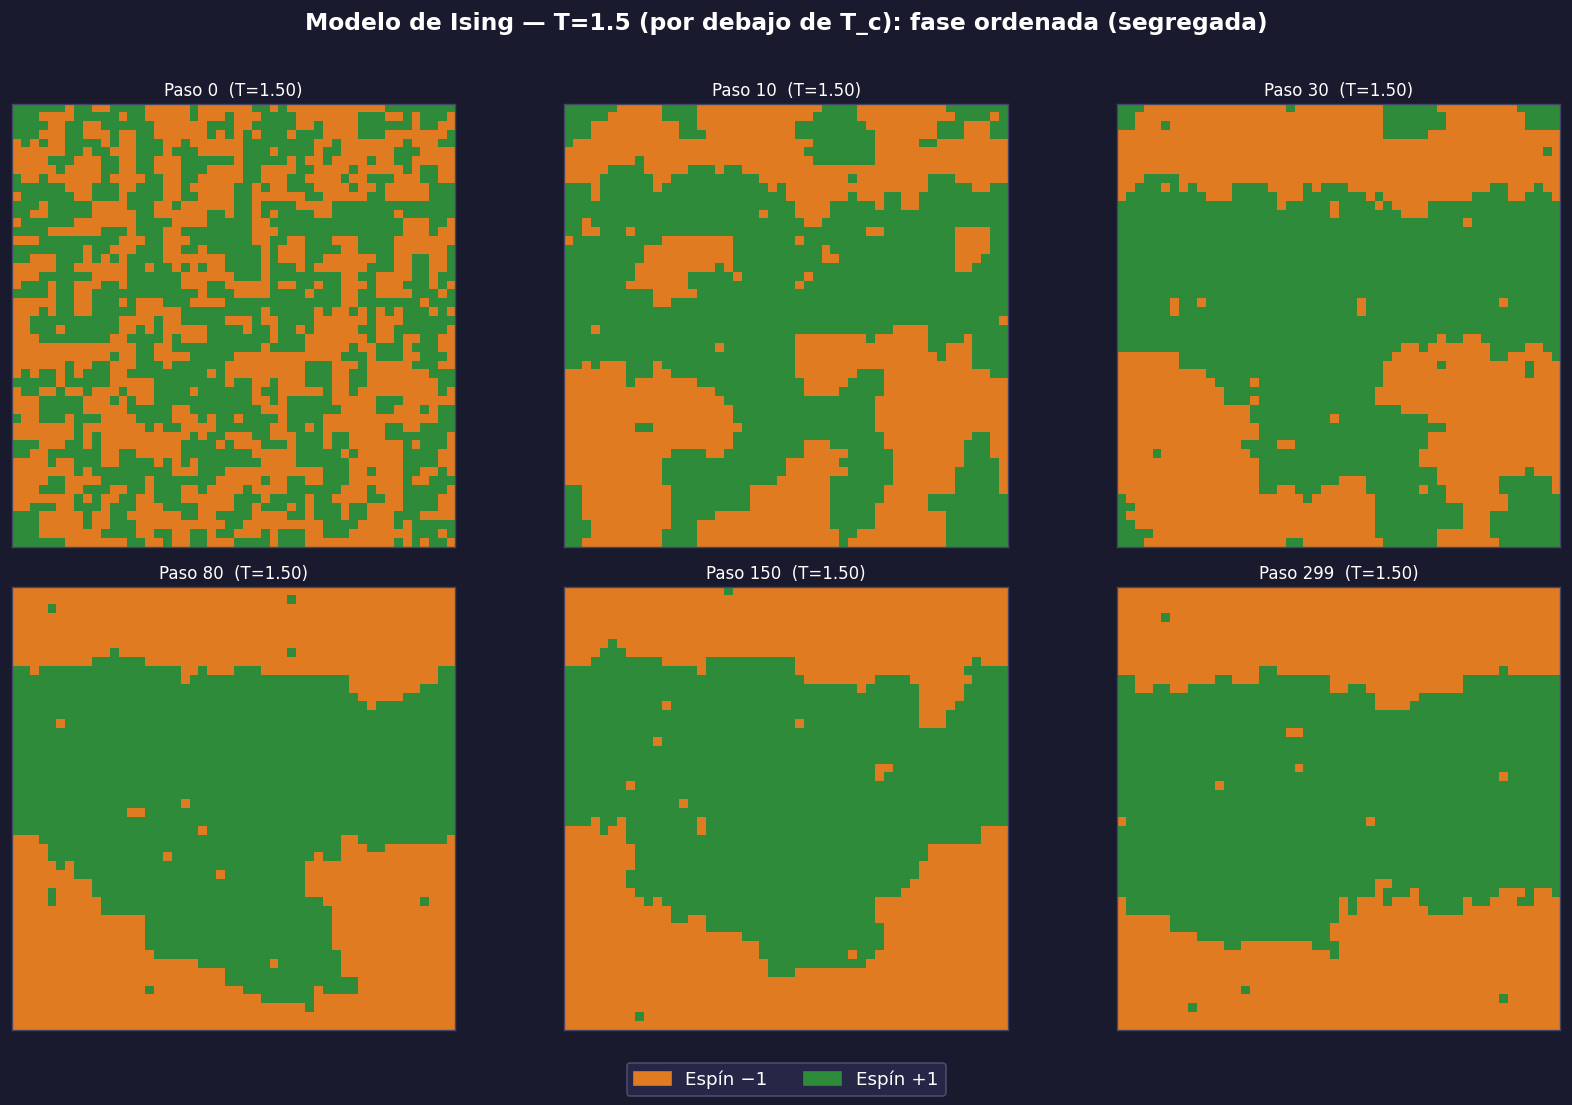
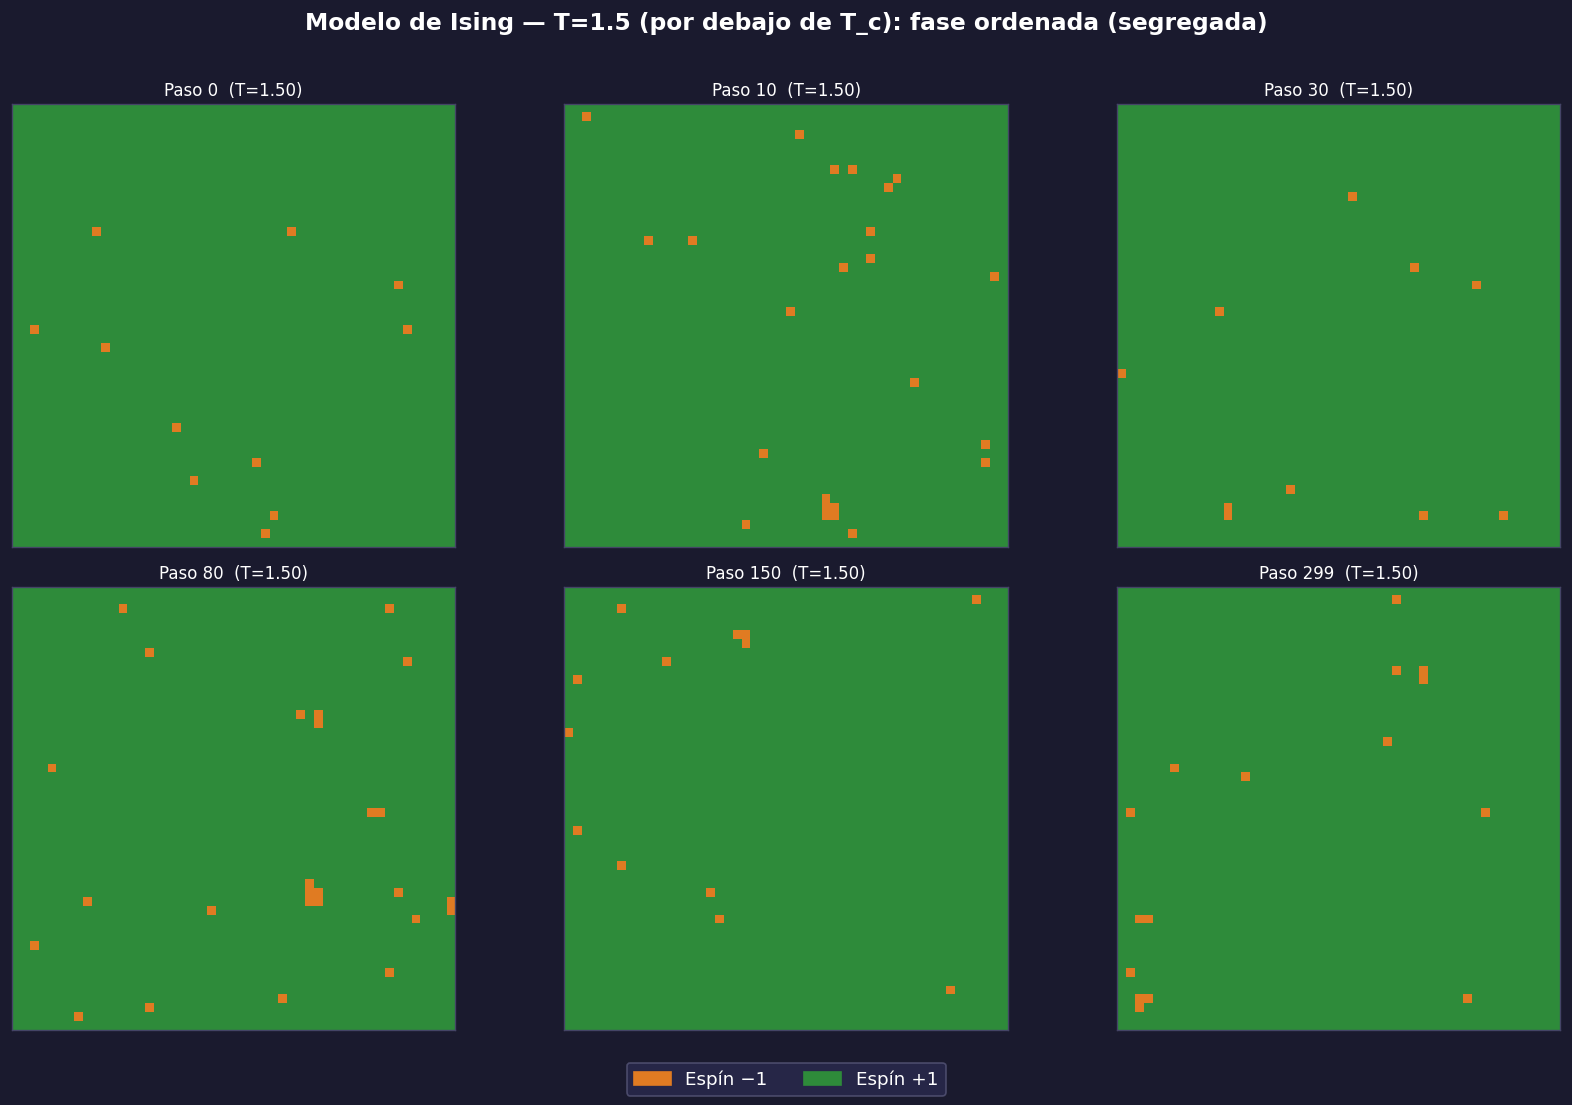
fix(ising): corregir inicialización + actualizar resultados y parámetros

diff --git a/funciones/ising.py b/funciones/ising.py
@@ -22,16 +22,16 @@ import matplotlib.colors as mcolors
 def inicializar_ising(N: int, T: float, seed: int = 42) -> np.ndarray:
     """
     Inicializa una grilla N×N de espines ±1.
-    Si T es alta → distribución aleatoria.
-    Si T es baja → todos alineados (orden inicial).
+    Si T < 2.0 (régimen frío) → todos alineados (orden inicial).
+    Si T >= 2.0               → distribución aleatoria.
     """
     rng = np.random.default_rng(seed)
-    if T > 3.0:
-        # Fase desordenada: espines aleatorios
-        return rng.choice([-1, 1], size=(N, N))
+    if T < 2.0:
+        # Régimen ordenado: arrancar con todos los espines alineados
+        return np.ones((N, N), dtype=int)
     else:
-        # Empezamos desde configuración aleatoria para observar la transición
-        return rng.choice([-1, 1], size=(N, N))
+        # Régimen desordenado: arrancar aleatorio
+        return rng.choice([-1, 1], size=(N, N)).astype(int)
 
 
 # ───────────────────────────────────────────────
@@ -109,8 +109,8 @@ def paso_metropolis(grilla: np.ndarray, T: float, J: float = 1.0,
 # SIMULACIÓN COMPLETA
 # ───────────────────────────────────────────────
 
-def correr_ising(N: int = 50, T: float = 2.0, n_pasos: int = 200,
-                 n_equilibrio: int = 100, J: float = 1.0,
+def correr_ising(N: int = 50, T: float = 2.0, n_pasos: int = 1000,
+                 n_equilibrio: int = 500, J: float = 1.0,
                  snapshots_en: list = None, seed: int = 42):
     """
     Corre la simulación de Ising y retorna snapshots y observables.
@@ -164,8 +164,8 @@ def correr_ising(N: int = 50, T: float = 2.0, n_pasos: int = 200,
 # TRANSICIÓN DE FASE: M vs T
 # ───────────────────────────────────────────────
 
-def curva_magnetizacion_vs_temperatura(N: int = 30, n_pasos: int = 300,
-                                        n_equilibrio: int = 150,
+def curva_magnetizacion_vs_temperatura(N: int = 30, n_pasos: int = 600,
+                                        n_equilibrio: int = 400,
                                         T_min: float = 0.5, T_max: float = 4.5,
                                         n_T: int = 20, seed: int = 42):
     """
